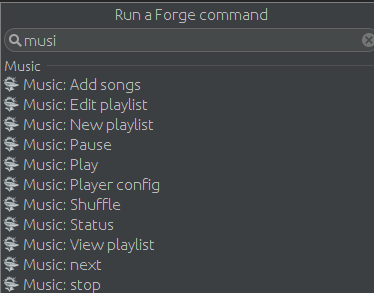
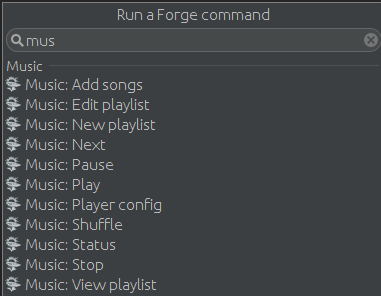
cosmetics

Changed region(s): [[0.0, 0.0, 0.4412, 1.0], [0.2941, 0.0307, 0.7353, 0.0922], [0.9412, 0.0922, 1.0, 0.1843]]

diff --git a/src/main/java/com/github/forge/addon/music/ui/NextCommand.java b/src/main/java/com/github/forge/addon/music/ui/NextCommand.java
@@ -27,7 +27,7 @@ public class NextCommand extends AbstractUICommand {
 	@Override
 	public UICommandMetadata getMetadata(UIContext context) {
 		return Metadata.forCommand(NextCommand.class)
-				.description("Plays the next song").name("Music: next")
+				.description("Plays the next song").name("Music: Next")
 				.category(Categories.create("Music"));
 	}
 

diff --git a/src/main/java/com/github/forge/addon/music/ui/StopCommand.java b/src/main/java/com/github/forge/addon/music/ui/StopCommand.java
@@ -26,7 +26,7 @@ public class StopCommand extends AbstractUICommand {
 	@Override
 	public UICommandMetadata getMetadata(UIContext context) {
 		return Metadata.forCommand(StopCommand.class)
-				.description("Stops the player").name("Music: stop")
+				.description("Stops the player").name("Music: Stop")
 				.category(Categories.create("Music"));
 	}
 

diff --git a/src/main/java/com/github/forge/addon/music/statistics/StatisticsManager.java b/src/main/java/com/github/forge/addon/music/statistics/StatisticsManager.java
@@ -120,7 +120,7 @@ public class StatisticsManager {
      * should persist to local json statistics file on every 10 played songs
      */
     private boolean shouldPersistStatistics() {
-        if(playStatistics.size() >=1){
+        if(playStatistics.size() >=10){
             return true;
         }
         int countSum = 0;
